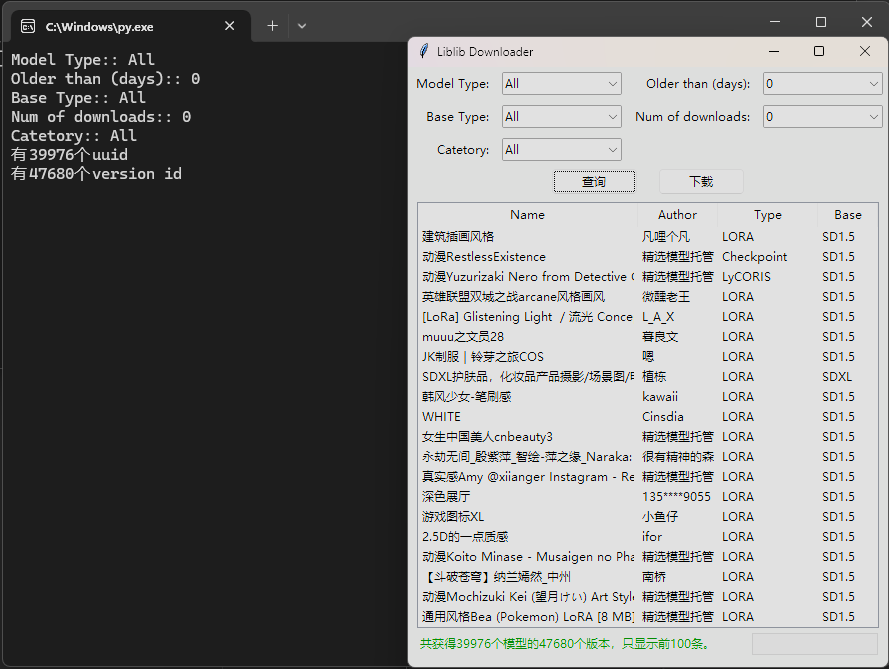
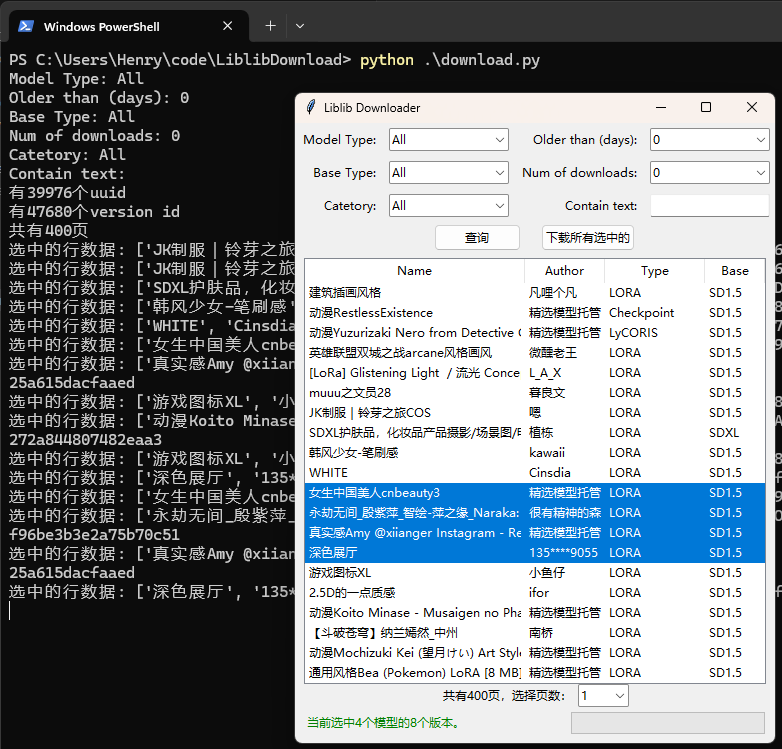
更新readme

diff --git a/README.md b/README.md
@@ -21,14 +21,14 @@
 
 一个开源的下载程序，download.py会调用它下载那些巨大的文件，要放到跟download.py同一个目录里。
 有条件的最好自己去github下载这个软件并解压放到同一个目录里，地址：
-https://github.com/aria2/aria2/releases/download/release-1.37.0/aria2-1.37.0-win-32bit-build1.zip
+https://github.com/aria2/aria2/releases/
 
 
 # 用法
 
 1. 没有python的话先安装python
-2. 下载最新的download.py和models.db，直接从上面点击每个文件下载也行，从右边的Releases里下载也行，一样的，存到任意文件夹里里并打开文件夹。aria2c.exe也放到同一个文件夹里。
-3. 双击或从命令行运行download.py即可，从图形化界面上过滤要下载的模型，点击下载。注意下载就是下载全部模型啊，下方绿字如果显示“共获得1000个模型的2000个版本”，那就是真下载全部2000个版本。
+2. 下载download.py、models.db、aria2c.exe三个文件，放到同一个文件夹里。
+3. 从命令行运行python download.py即可.
 ![截图](screenshot.png)
 4. Sit back and relax.
 
@@ -37,6 +37,8 @@ https://github.com/aria2/aria2/releases/download/release-1.37.0/aria2-1.37.0-win
 
 get_all_models_info.py已更新自动上传机制，你不用自己运行，它会每天在某个遥远的服务器上自动运行，自动更新数据库，自动上传到github里，代码库里的models.db就是最新的数据库文件，从commit comment里能看出更新日期。
 
-### 群友反应MacOS不能下载，试了下确实如此，大约是异步调用的机制问题，但我没有Mac来调试，所以就是暂不支持了。Windows是没有问题。
+新增文本搜索，Contain text文本框输入的字，会按模型名字或作者名字一起搜索。
+
+群友反应MacOS不能下载，试了下确实如此，大约是异步调用的机制问题，但我没有Mac来调试，所以就是暂不支持了。Windows是没有问题。
 
 ### 如果你是打包下载了整个代码，你会发现里面的models.db大小不对，这是因为这个文件比较大，github存储它的方式不一样，默认不会打包到代码里。没事，单独点击[这个数据文件](https://github.com/lilei105/LiblibDownload/blob/master/models.db) 下载一下就好了，它现在是90多MB的样子。
